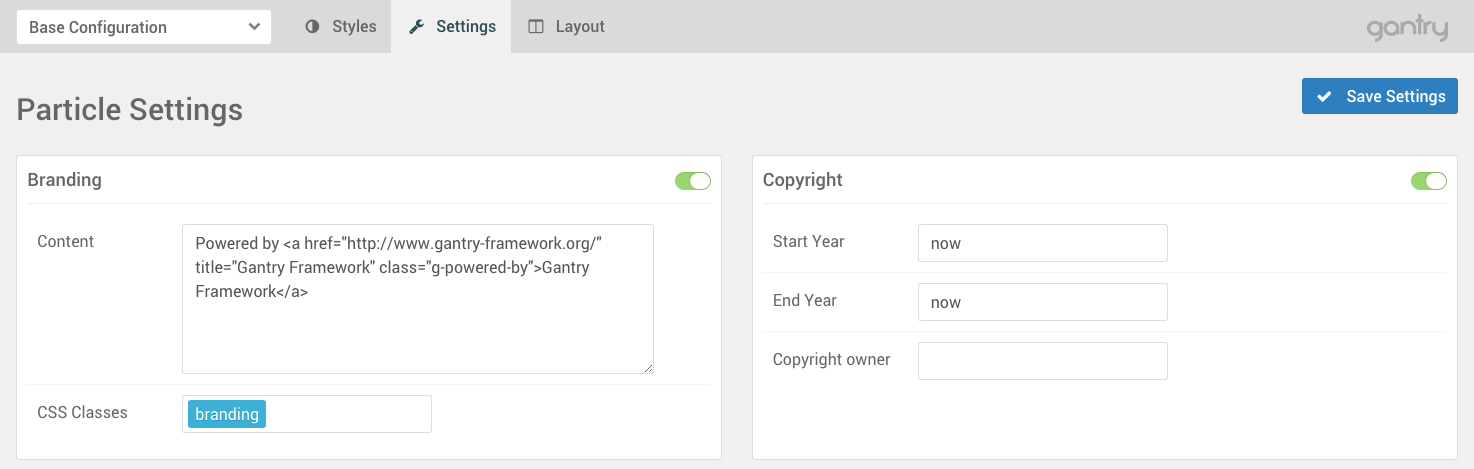
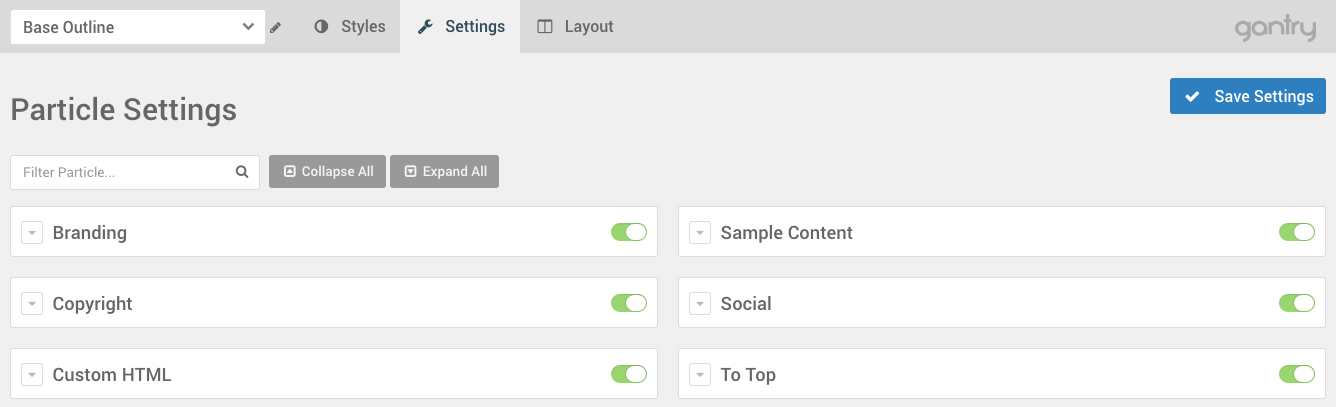
Updated Settings Panel Images + Documentation

diff --git a/pages/01.gantry5/02.configure/03.settings/docs.md b/pages/01.gantry5/02.configure/03.settings/docs.md
@@ -17,13 +17,17 @@ Think of this panel as the breaker panel of Gantry. It serves as a one-stop shop
 Controls
 -----
 
-![Controls](controls.png) {.border .shadow}
+![Controls](controls_1.png) {.border .shadow}
 
-The **Save Settings** button applies any changes you have made to the **Settings** administrative panel to its associated outline. These changes apply as the new default for the setting for that outline only, and will only become a global default if you are using the theme's assigned global outline.
+The **Save Settings** button applies any changes you have made to the **Settings** administrative panel to its associated outline. These changes apply as the new default for the setting for that outline only, and will only become a global default if you are using the theme's assigned base outline.
 
-![Controls](commands_2.png) {.border .shadow}
+![Controls](controls_2.png) {.border .shadow}
 
 When using an override **outline**, you will notice checkboxes next to the different settings fields. When unchecked, these fields may appear grayed out until you either click the setting or the checkbox to indicate you would like to make a change. Once you have made a change and clicked the **Save Settings** button, your changes will be saved for the associated outline. To revert this change back to its default setting, simply uncheck the check box.
+
+![Controls](controls_3.png) {.border .shadow}
+
+You can also take advantage of the search field to filter particles, positions, and atoms to make it easier to find the specific item you want to configure. To make things even easier to navigate through, you can use the **Collapse All** and **Expand All** buttons to collapse items down so all see is its name and whether or not it is activated, or expand them all. Upon selecting the expansion arrow to the left of each item, you can expand or collapse it, individually. 
 
 Particle Settings
 -----
